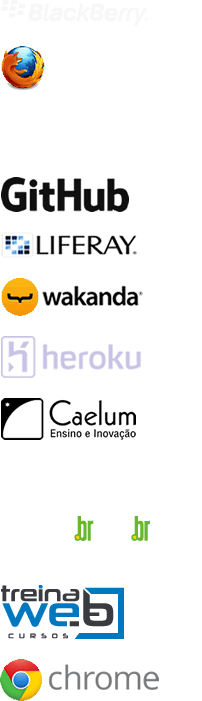
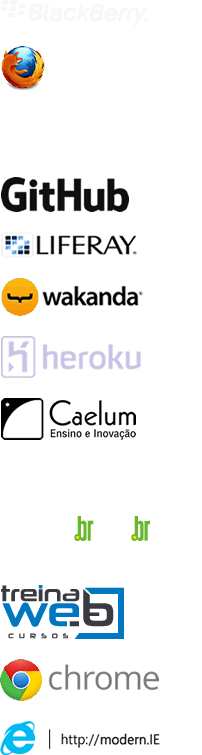
Changing text-descriptions and a few images

diff --git a/css/main.css b/css/main.css
@@ -141,7 +141,7 @@ body { background-color:#201C1D; }
 #menu .ballon { padding:11px 0 0 11px; width:45px; height:50px; background-position:0 -884px; }
 #menu .ballon:hover,
 #menu .ballon:focus { background-position:-98px -884px; }
-#menu .chapters-list { margin:0; padding:0; position:relative; top:25%; list-style:none; }
+#menu .chapters-list { margin:0; padding:0; position:relative; top:22%; list-style:none; }
 #menu .chapters-list li { position:relative; display:block; border-bottom:1px solid #464B4D; }
 #menu .chapters-list li:first-child { border-top:1px solid #464B4D; }
 #menu .chapters-list li a { position:relative; display:block; width:60px; height:62px;  }
@@ -481,6 +481,10 @@ main .where { float:left; width:432px; font-size:28px; font-weight:bold; letter-
 #sponsors .sponsors-wrapper .sponsors .sponsor-list .google { background-color:#FFF; }
 #sponsors .sponsors-wrapper .sponsors .sponsor-list .google .sponsor a { margin:22px 0 0 -8px; width:203px; height:52px; background-position:0 -728px; }
 #sponsors .sponsors-wrapper .sponsors .sponsor-list .google .about { color:#000; }
+#sponsors .sponsors-wrapper .sponsors .sponsor-list .microsoft { background-color:#FFF; }
+#sponsors .sponsors-wrapper .sponsors .sponsor-list .microsoft .sponsor a { margin:24px 0 0 -8px; width:208px; height:44px; background-position:0 -800px; }
+.LNG-en-us #sponsors .sponsors-wrapper .sponsors .sponsor-list .microsoft .sponsor a { margin-top:11px; }
+#sponsors .sponsors-wrapper .sponsors .sponsor-list .microsoft .about { color:#000; }
 #sponsors .sponsors-wrapper .sponsors .sponsor-list .about { float:left; margin:0; width:670px; font-family:Arial, Helvetica, sans-serif; font-size:15px; line-height:120%; color:rgb(255,255,255); text-align:left; }
 #sponsors .sponsors-wrapper .squares .sponsor-list { padding:0; }
 #sponsors .sponsors-wrapper .squares li { display:inline-block; margin-left:14px; }
@@ -517,6 +521,7 @@ main .where { float:left; width:432px; font-size:28px; font-weight:bold; letter-
 #sponsors .sponsors-wrapper .supporters a.superplayer { margin-top:21px; width:180px; height:57px; background-position:0 -483px; }
 #sponsors .sponsors-wrapper .supporters a.kinghost { margin-top:30px; width:193px; height:26px; background-position:0 -545px; }
 #sponsors .sponsors-wrapper .supporters a.publisoft { margin-top:23px; width:170px; height:38px; background-position:0 -592px; }
+#sponsors .sponsors-wrapper .supporters a.qi { margin-top:12px; width:93px; height:67px; background-position:0 -650px; }
 
 /* FOLLOW US */
 #follow-us { position:relative; clear:both; padding-top:20px; width:100%; background-color:#171314; } 
@@ -803,6 +808,7 @@ main .where { float:left; width:432px; font-size:28px; font-weight:bold; letter-
     #sponsors .sponsors-wrapper .sponsors .sponsor-list .liferay .sponsor a { margin:auto; width:135px; height:19px; background-position:0 -132px; }
     #sponsors .sponsors-wrapper .sponsors .sponsor-list .w3c .sponsor a { margin:auto; width:209px; height:66px; background-position:0 -330px; }
     #sponsors .sponsors-wrapper .sponsors .sponsor-list .google .sponsor a { margin:auto; width:137px; height:35px; background-position:0 -460px; }
+    #sponsors .sponsors-wrapper .sponsors .sponsor-list .microsoft .sponsor a { margin:auto !important; width:155px; height:33px; background-position:0 -505px; }
     #sponsors .sponsors-wrapper .squares .sponsor-list { padding:0; }
     #sponsors .sponsors-wrapper .squares li { margin-left:0; width:145px !important; }
     #sponsors .sponsors-wrapper .squares li:nth-last-child(even) { margin-right:5px; }
@@ -831,6 +837,7 @@ main .where { float:left; width:432px; font-size:28px; font-weight:bold; letter-
     #sponsors .sponsors-wrapper .supporters a.superplayer { margin-bottom:6px; width:123px; height:29px; background-position:0 -321px; }
     #sponsors .sponsors-wrapper .supporters a.kinghost { margin-top:15px; width:114px; height:17px; background-position:0 -360px; }
     #sponsors .sponsors-wrapper .supporters a.publisoft { margin-top:11px; width:110px; height:24px; background-position:0 -387px; }
+    #sponsors .sponsors-wrapper .supporters a.qi { margin-top:11px; width:72px; height:52px; background-position:0 -421px; }
     #sponsors .sponsors-wrapper .squares .sponsor-list .sponsor.adobe .sponsors-general { margin-top:37px; width:115px; height:27px; background-position:0 -292px; }
     #sponsors .sponsors-wrapper .be-a-sponsor { padding-bottom:40px; font-size:15px; }
     
@@ -1123,7 +1130,9 @@ main .where { float:left; width:432px; font-size:28px; font-weight:bold; letter-
     #sponsors .sponsors-wrapper .sponsors .sponsor-list .mozilla .sponsor a { margin-top:31px; height:50px; width:149px; background-position:0 -40px; }
     #sponsors .sponsors-wrapper .sponsors .sponsor-list .liferay .sponsor a { margin-top:38px; width:135px; height:20px; background-position:0 -235px; }
     #sponsors .sponsors-wrapper .sponsors .sponsor-list .w3c .sponsor a { margin:36px 0 0 -4px; width:149px; height:57px; background-position:0 -516px; }
-    #sponsors .sponsors-wrapper .sponsors .sponsor-list .google .sponsor a { margin-top:16px; width:159px; height:42px; background-position:0 -659px; }
+    #sponsors .sponsors-wrapper .sponsors .sponsor-list .google .sponsor a { margin-top:45px; width:159px; height:42px; background-position:0 -659px; }
+    #sponsors .sponsors-wrapper .sponsors .sponsor-list .microsoft .sponsor a { margin-top:38px; width:160px; height:34px; background-position:0 -721px; }
+    .LNG-en-us #sponsors .sponsors-wrapper .sponsors .sponsor-list .microsoft .sponsor a { margin-top:31px; }
     #sponsors .sponsors-wrapper .squares li { width:auto !important; }
     #sponsors .sponsors-wrapper .squares li a { width:167px; height:121px; }
     #sponsors .sponsors-wrapper .squares li .sponsor.join-us { width:168px; height:121px; background:url('../img/tablet/bg-join-us.png') no-repeat; }    

diff --git a/index.html b/index.html
@@ -1108,8 +1108,14 @@
                                     <strong class="sponsor">
                                         <a href="//developers.google.com/chrome/" rel="external" title="visite o site do Google Chrome &mdash; Google Developers" class="sponsors-general">Google</a>    
                                     </strong>
-                                    <p class="about">Chrome é um browser rápido, simples e seguro criado para a web moderna. Chrome OS é o Sistema Operacional que oferece uma experiência mais rápida, simples e mais segura para pessoas que passam a maior parte do seu tempo navegando na web. São construídos respectivamente sobre os projetos Open Source Chromium e Chromium OS. Juntos, Chrome e Chrome OS se esforçam para um crescimento da web e para oferecer uma experiência unificada para seu computador, celular e tablet.</p>
-                                </li>                                
+                                    <p class="about">Chrome is a fast, simple, and secure web browser, built for the modern web. Chrome OS is an operating system that provides a fast, simple, and more secure computing experience for people who spend most of their time on the web. They are, respectively, built upon Chromium and Chromium OS open source projects. Together, Chrome and Chrome OS aim to move the web forward and to provide a unified browsing experience for your computer, phone and tablet.</p>
+                                </li>
+                                <li class="microsoft">
+                                    <strong class="sponsor">
+                                        <a href="//modern.ie" rel="external" title="Teste mais f&#225;cil no Internet Explorer | modern.IE" class="sponsors-general">Modern.IE</a>    
+                                    </strong>
+                                    <p class="about">Apresentando o modern.IE, um grupo de ferramentas e recursos criados pela Microsoft para ajudar você a manter versões modernas e antigas do Internet Explorer. Faça o download das máquinas virtuais para Windows, Mac e Linux! Faça o teste de seu site em diferentes navegadores e encontre padrões de código conhecidos por causar problemas de compatibilidade. Gaste menos tempo testando, e mais tempo construindo o que está por vir!</p>
+                                </li>                                                                
                             </ul>
                         </div>
                         <div class="sponsors silver squares">
@@ -1164,6 +1170,7 @@
                                 <li><a href="//superplayer.fm/" rel="external" title="O Superplayer é a forma mais fácil e rápida de se encontrar a trilha sonora certa para cada momento do seu dia. Confira!" class="superplayer ir">Superplayer</a></li>
                                 <li><a href="//kinghost.com.br/" rel="external" title="KingHost: Hospedagem de Sites Linux e Windows" class="kinghost ir">KingHost</a></li>
                                 <li><a href="//publisoft.com.br/" rel="external" title="Acesse o site da Publisoft" class="publisoft ir">Publisoft</a></li>
+                                <li><a href="//qi.edu.br//" rel="external" title="QI - Escolas e Faculdades" class="qi ir">QI</a></li>
                             </ul>
                         </div>                                                
                     </div>          				    

diff --git a/en/index.html b/en/index.html
@@ -1104,7 +1104,13 @@
                                         <a href="//developers.google.com/chrome/" rel="external" title="visit Google Chrome &mdash; Google Developers" class="sponsors-general">Google</a>    
                                     </strong>                                    
                                     <p class="about">Chrome is a fast, simple, and secure web browser, built for the modern web. Chrome OS is an operating system that provides a fast, simple, and more secure computing experience for people who spend most of their time on the web. They are, respectively, built upon Chromium and Chromium OS open source projects. Together, Chrome and Chrome OS aim to move the web forward and to provide a unified browsing experience for your computer, phone and tablet.</p>
-                                </li>                                 
+                                </li>
+                                <li class="microsoft">
+                                    <strong class="sponsor">
+                                        <a href="//modern.ie" rel="external" title="Teste mais f&#225;cil no Internet Explorer | modern.IE" class="sponsors-general">Modern.IE</a>    
+                                    </strong>
+                                    <p class="about">Introducing modern.IE, a set of tools and resources from Microsoft to help you support modern and older versions of Internet Explorer. Download Virtual Machines for Windows, Mac and Linux. Test your site on different browsers and scan your site for common coding patterns that could cause compatibility issues. Spend less time testing, and more time building what’s next.</p>
+                                </li>                                                                    
                             </ul>
                         </div>
                         <div class="sponsors silver squares">
@@ -1159,6 +1165,7 @@
                                 <li><a href="//superplayer.fm/" rel="external" title="O Superplayer é a forma mais fácil e rápida de se encontrar a trilha sonora certa para cada momento do seu dia. Confira!" class="superplayer ir">Superplayer</a></li>
                                 <li><a href="//kinghost.com.br/" rel="external" title="KingHost: Hospedagem de Sites Linux e Windows" class="kinghost ir">KingHost</a></li>
                                 <li><a href="//publisoft.com.br/" rel="external" title="Publisoft" class="publisoft ir">Publisoft</a></li>
+                                <li><a href="//qi.edu.br//" rel="external" title="QI - Escolas e Faculdades" class="qi ir">QI</a></li>
                             </ul>
                         </div>                                               
                     </div>          				    
